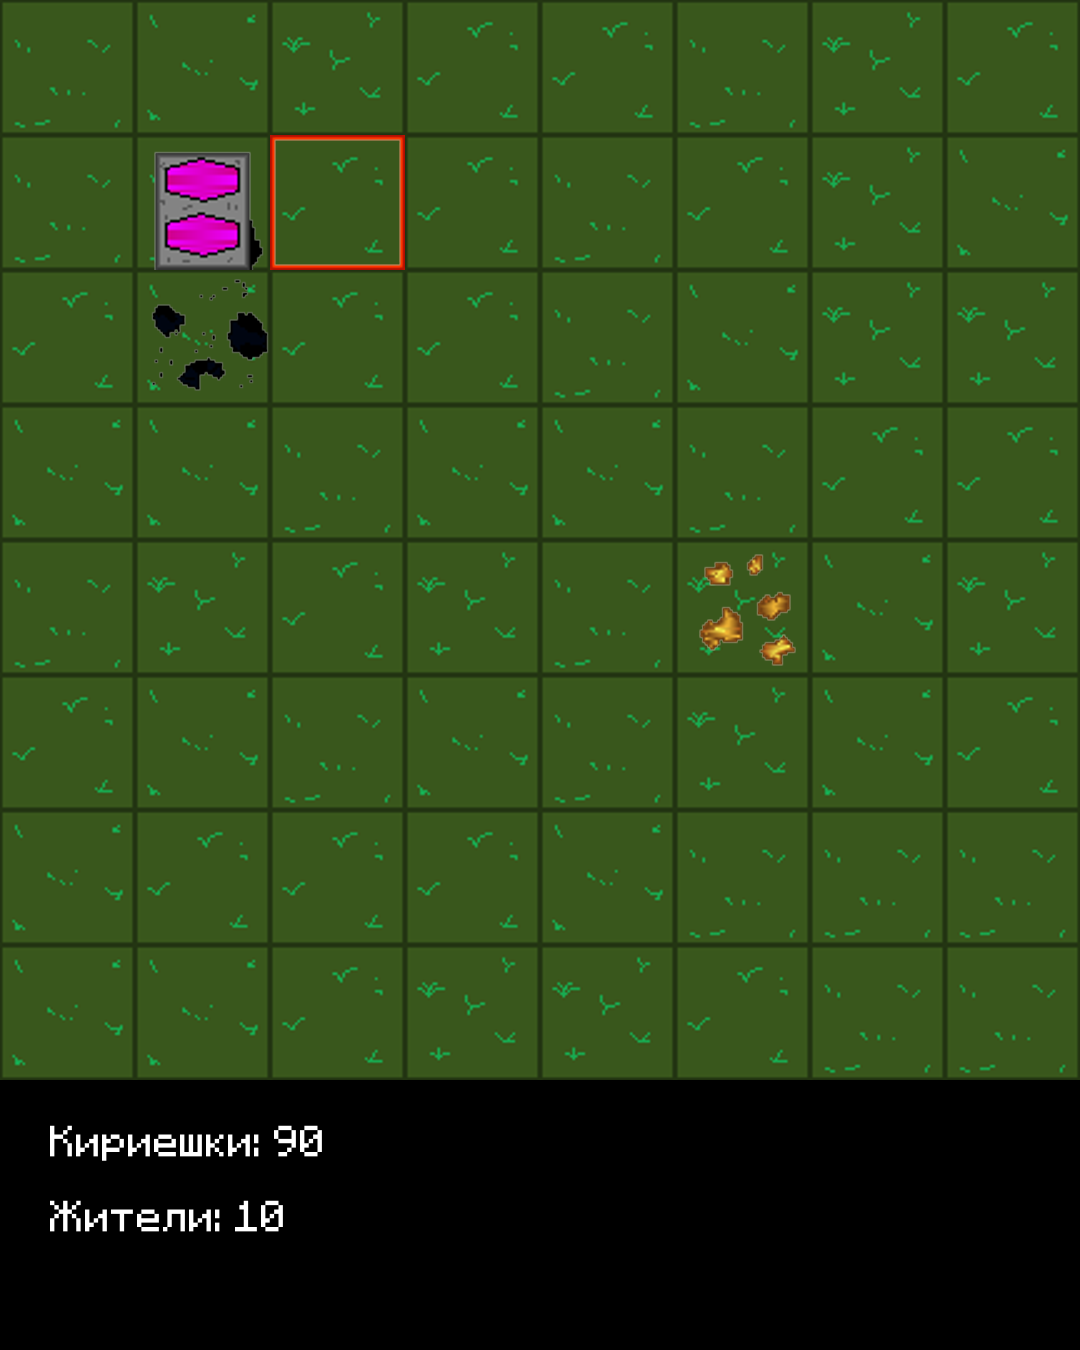
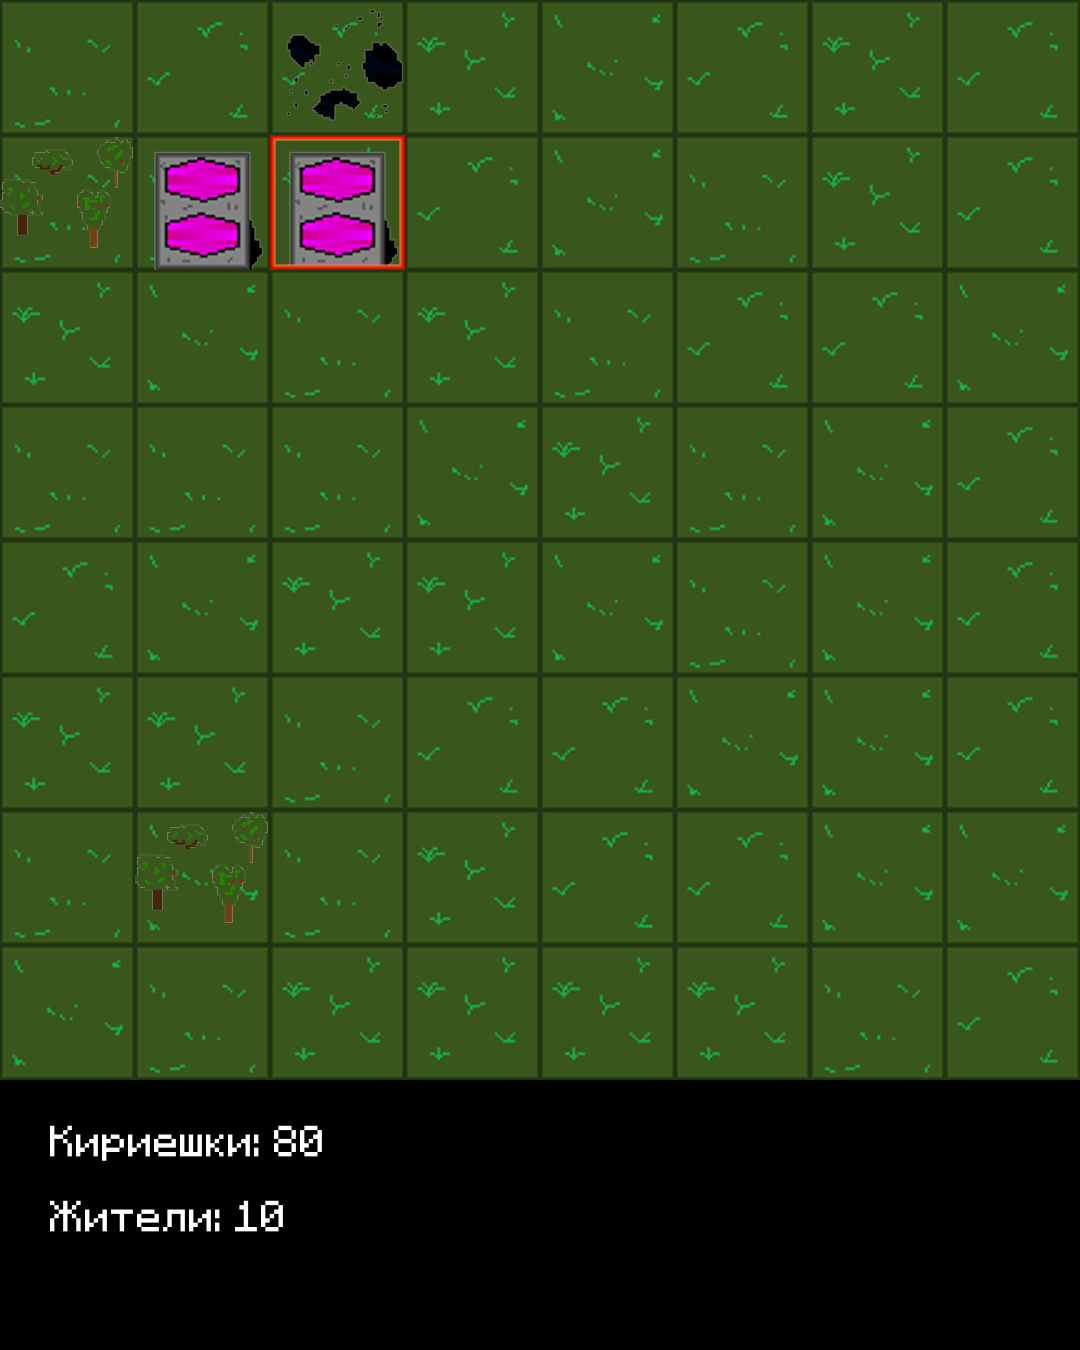
comleted generating res

diff --git a/BGEvr/botik.py b/BGEvr/botik.py
@@ -30,7 +30,6 @@ class RunGameBot:
         self.used_keyboard = []
         self.main_keyboard = [
             [InlineKeyboardButton("хелп ми плз", callback_data='help')],
-            [InlineKeyboardButton("статистика", callback_data='info')],
             [InlineKeyboardButton("построить", callback_data='build')],
             [InlineKeyboardButton("🔼", callback_data='u')],
             [InlineKeyboardButton("◀",callback_data="l"),
@@ -43,7 +42,7 @@ class RunGameBot:
             [InlineKeyboardButton(f"домик - 10 кириешек", callback_data='house')],
             [InlineKeyboardButton("заводик - 20 кириешек", callback_data='factory')],
             [InlineKeyboardButton("банк - 15 кириешек", callback_data='bank')],
-            [InlineKeyboardButton("улучшить выбранное строение - 20 кириешек", callback_data='upgrade')]
+            [InlineKeyboardButton("улучшить выбранное строение - 20 кириешек", callback_data='upgrade')],
             [InlineKeyboardButton("удалить выбранное строение - 5 кириешек", callback_data='delete')],
             [InlineKeyboardButton("назад", callback_data='main_page')]
         ]
@@ -92,8 +91,6 @@ class RunGameBot:
             self.used_keyboard = self.build_keyboard
         if query.data == 'main_page':
             self.used_keyboard = self.main_keyboard
-        if query.data == 'info':
-            self.txt += self.player.player_info(query.from_user.id)
         if query.data == 'u':
             player.player_move("u", query.from_user.id)
             update_usage = True

diff --git a/BGEvr/database_adapter.py b/BGEvr/database_adapter.py
@@ -1,5 +1,4 @@
 import psycopg2
-import random
 class Adapter():
 
     def __init__(self, host, port, sslmode, dbname,schema_name, user, password, target_session_attrs):
@@ -123,32 +122,4 @@ class Adapter():
 #db.insert_batch("houses",data = {...})
 db = Adapter(schema_name="Yellow_Team_Project",host="rc1d-9cjee2y71olglqhg.mdb.yandexcloud.net",port="6432",dbname="sch58_db",sslmode=None,user="Admin",password="atdhfkm2024",target_session_attrs="read-write")
 db.connect()
-
-class GetRes:
-    def __init__(self,user_id,db):
-        self.user_id = user_id
-        self.db = db
-        self.res_count = random.randint(3,5)
-        self.res_list = ["tree","coal","copper"]
-    def get_data(self):
-        return dict([("res_type",self.res_list[random.randint(0,2)]),("volume",100),("pos_x",random.randint(0,7)),("pos_y",random.randint(0,7))])
-    def generate_res(self):
-        all_data = []
-        for i in range(self.res_count):
-            data = self.get_data()
-            all_data.append(data)
-        user_resources = self.db.insert_batch(table="resources",data=all_data,id_name="id")
-        print(user_resources)
-
-
-
-db.delete_all("resources")
-r = GetRes(user_id=5064226866,db=db)
-r.generate_res()
-    
-
-
-
-
-
 

diff --git a/BGEvr/Controller/GetRes.py b/BGEvr/Controller/GetRes.py
@@ -1,0 +1,24 @@
+import random
+class GetRes:
+    def __init__(self,user_id,db):
+        self.user_id = user_id
+        self.db = db
+        self.res_count = random.randint(3,5)
+        self.res_list = ["tree","coal","copper"]
+    def get_data(self):
+        x = random.randint(0,7)
+        y = random.randint(0,7)
+        while x == y:
+            x = random.randint(0,7)
+            y = random.randint(0,7)
+        return dict([("res_type",self.res_list[random.randint(0,2)]),("volume",100),("pos_x",x),("pos_y",y)])
+    def generate_res(self):
+        all_data = []
+        user_resources = []
+        for i in range(self.res_count):
+            data = self.get_data()
+            all_data.append(data)
+            user_resources.append(self.db.insert_batch(table="resources",data=[all_data[i]],id_name="id")[0][0])
+        all_user_res = ",".join(list(map(str,user_resources)))
+        req = f"""res_id = '{all_user_res}'"""
+        self.db.update_by_user_id("user_info",req,id=self.user_id)
